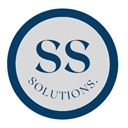
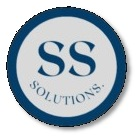
lo puse en otro formato para las transperencias
lo pase a png auqneu este mas pesado se ve mejor sin bordes feos blancos

diff --git a/index.html b/index.html
@@ -77,15 +77,16 @@ style="background-image: url('imag/bg_eadites1.jpg');
               <span class="visually-hidden">Next</span>
             </button>
           </div>
+          <!-- Botón de Invitado -->
           <div class="mt-3 d-flex justify-content-around">
-            <button class="btn btn-lg flex-grow-1 mx-4" style="background-color: #2AF571;">Invitado</button>
+            <button class="btn btn-lg flex-grow-1 mx-4" style="background-color: #1948B5;">Invitado</button>
           </div>
           </div>
 
           <!--login-->
           <div class="col-lg-5 d-flex flex-column align-items-end min-vh-100">
             <div class="text-center px-lg-5 pt-lg-4 pb-lg-3 p-4 w-100 mb-auto">
-              <img src="imag/sslog.jpeg"  class="img-fluid" alt="">
+              <img src="imag/sslog.png"  class="img-fluid" alt="">
             </div>
             <div class="px-lg-5 pt-lg-4 p-4 w-100 align-self-center">
                 <h1 class="text-center mb-5 font-weight-normal">Inicio de sesion</h1>
